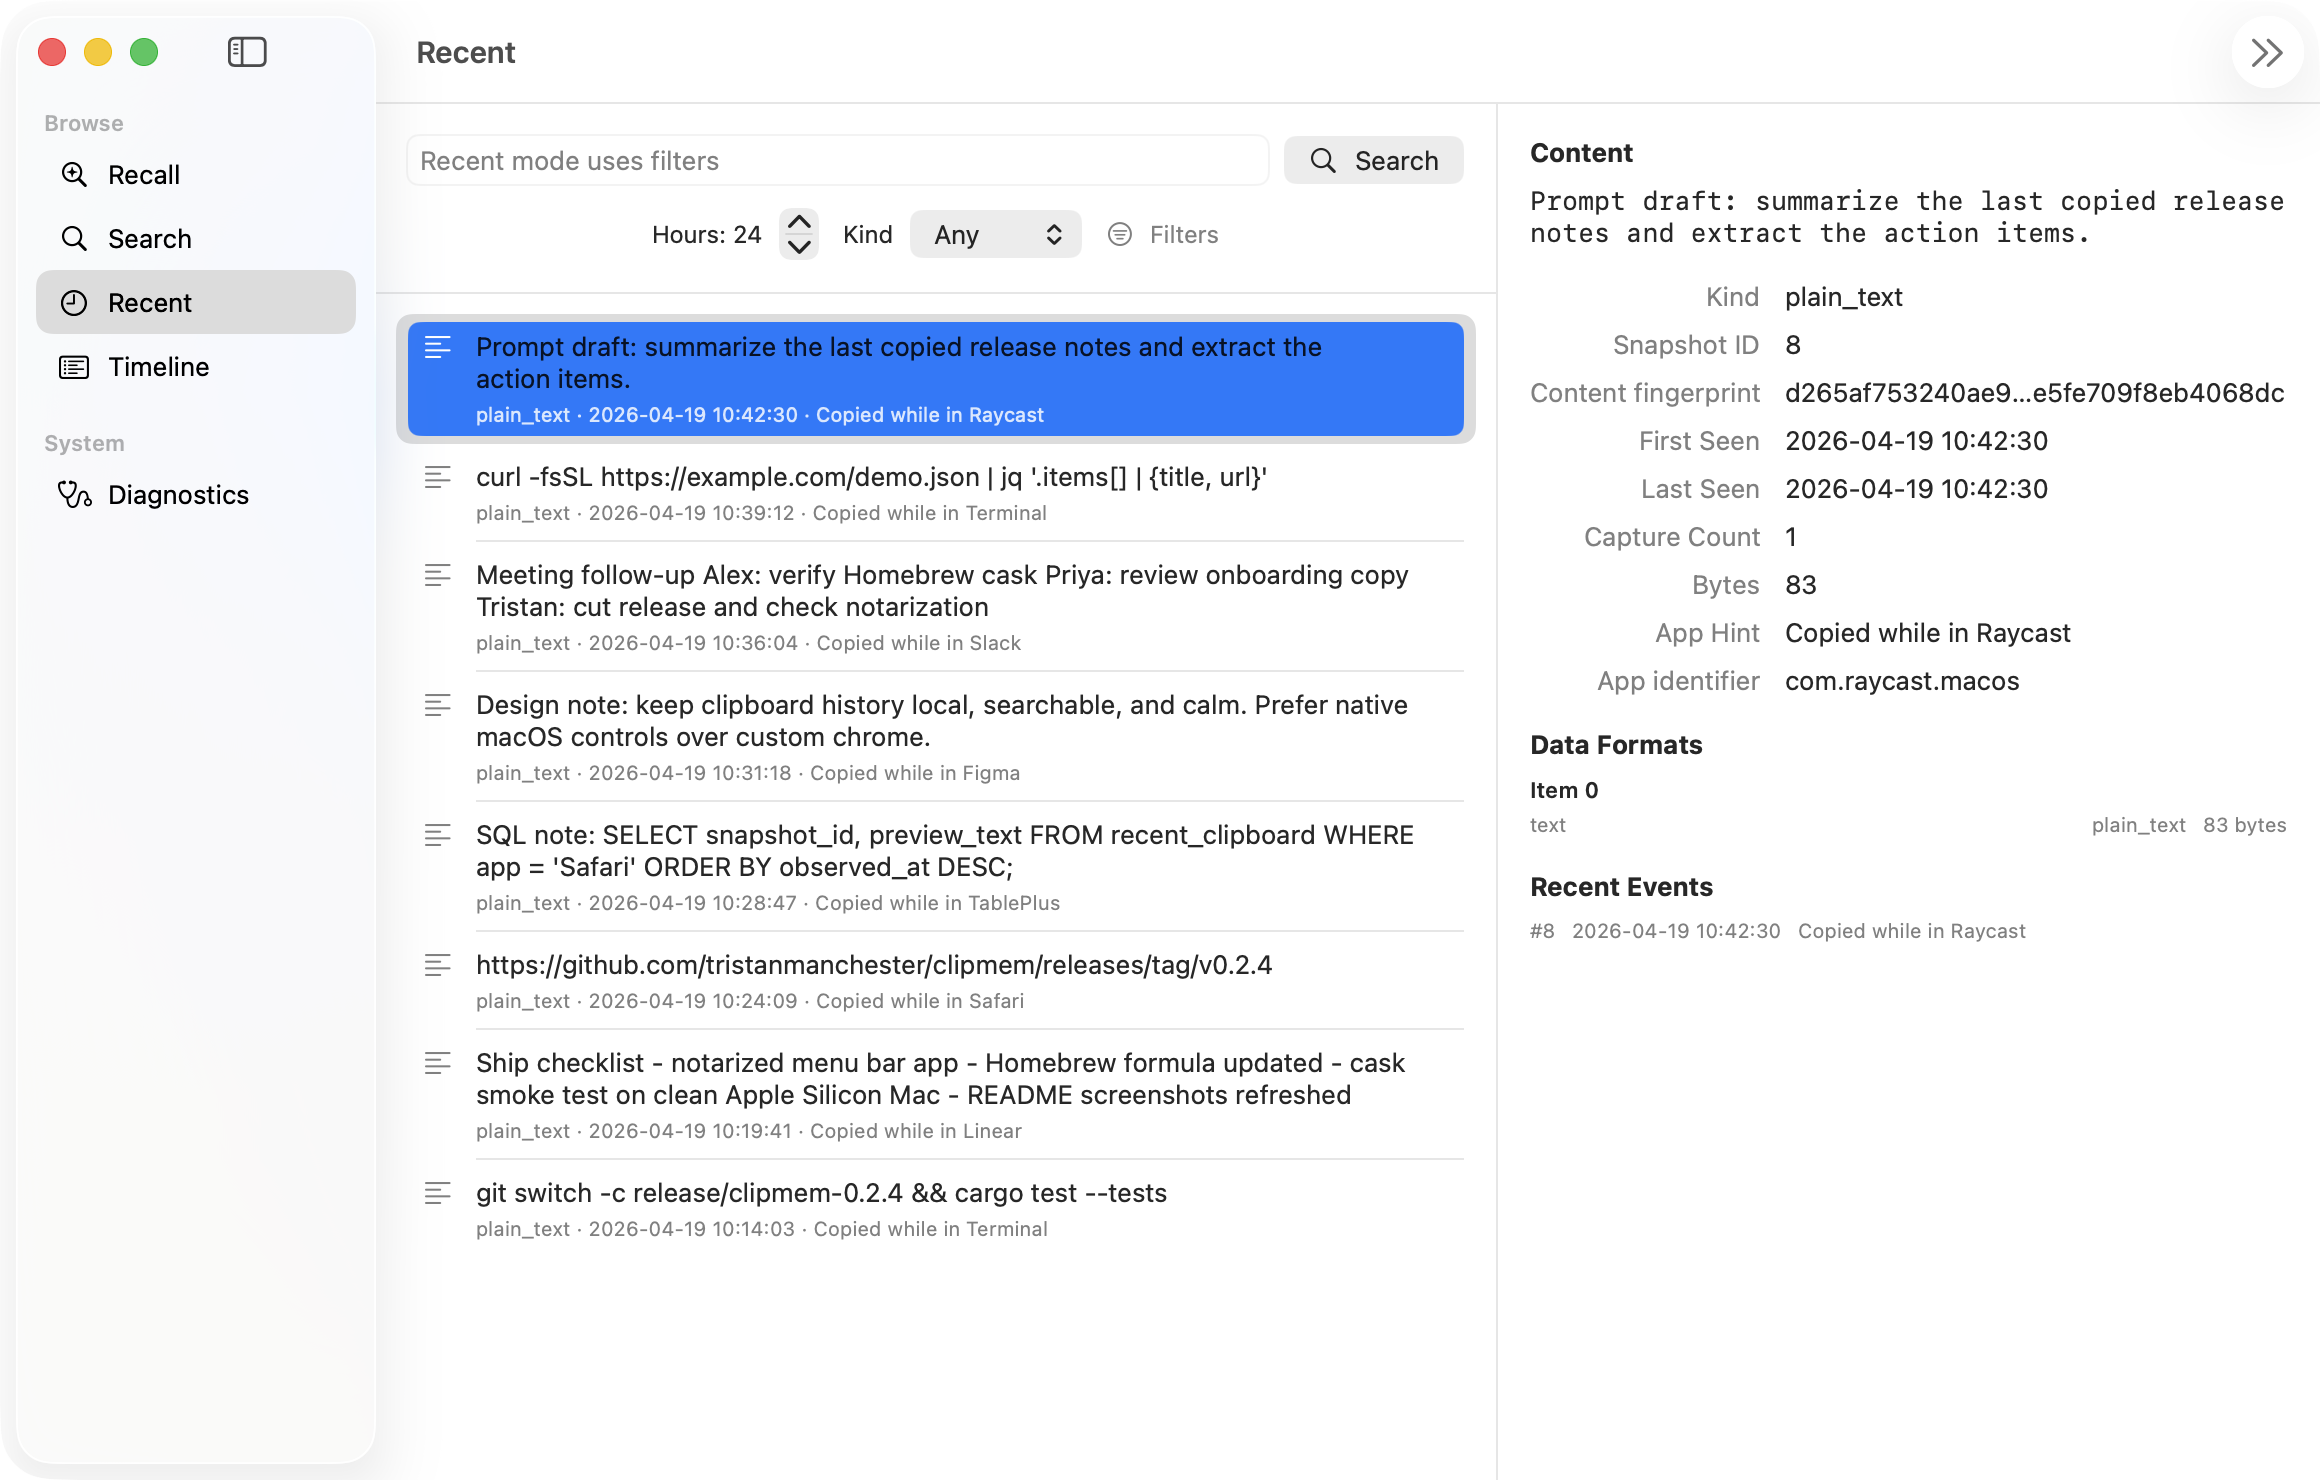
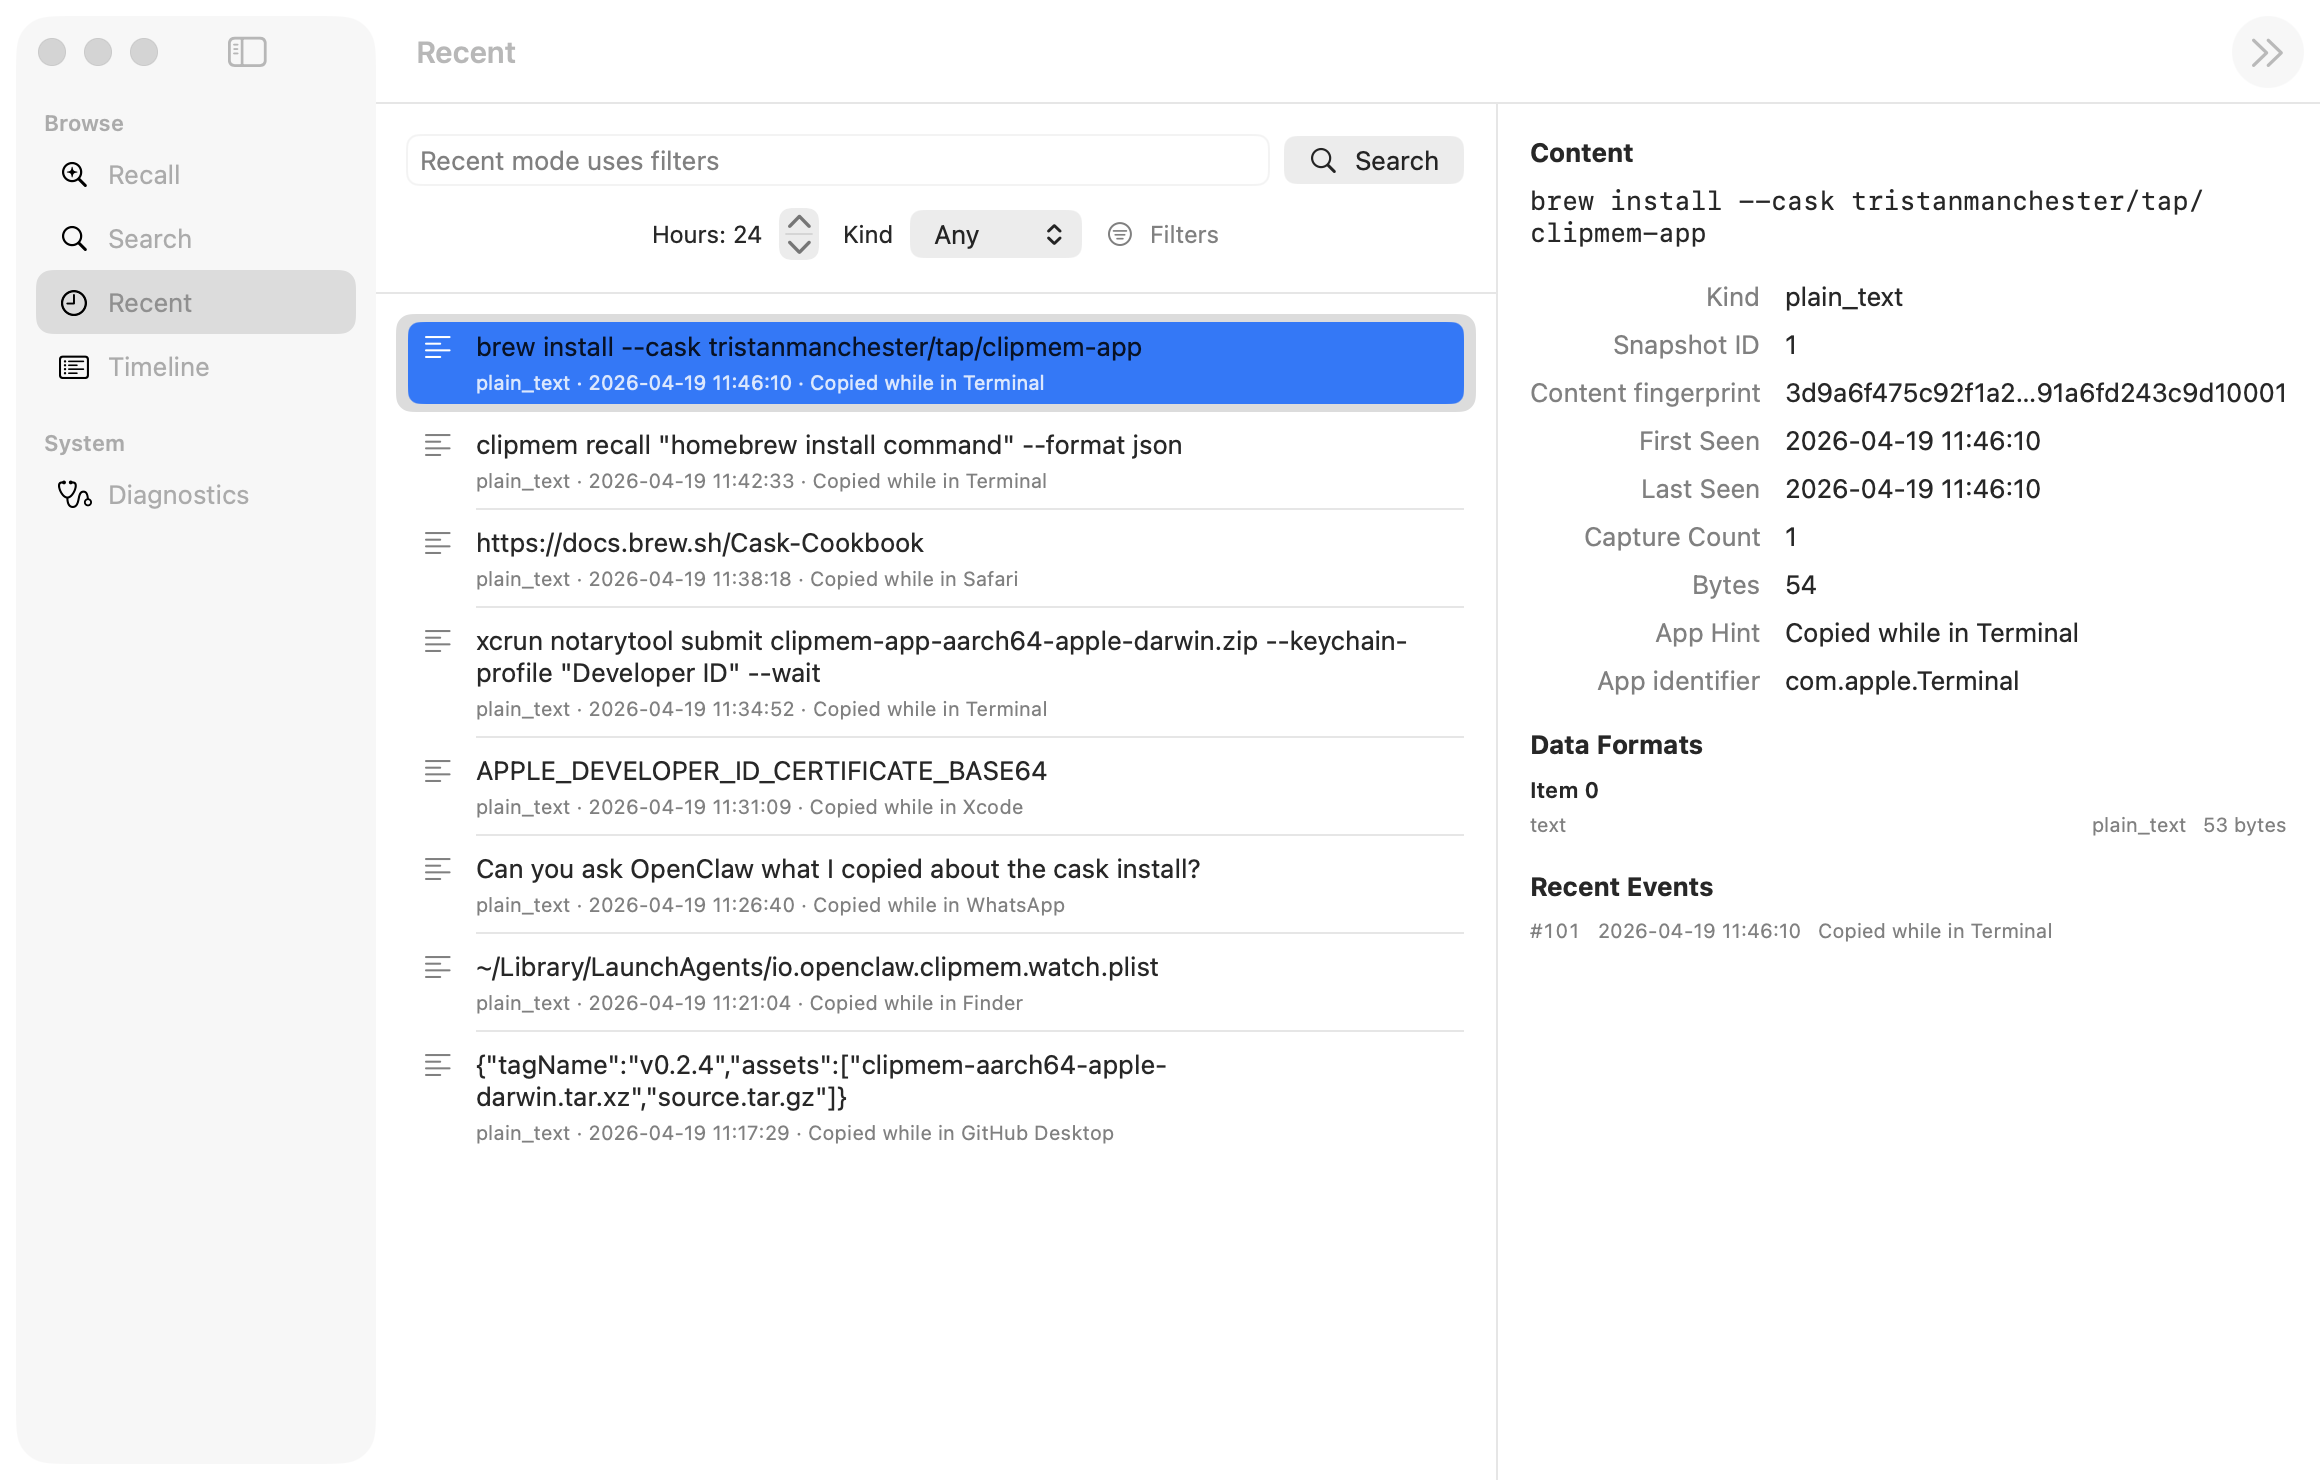
Restore OpenClaw screenshot and refresh app screenshots

diff --git a/README.md b/README.md
@@ -5,14 +5,16 @@
 [![Rust 1.87+](https://img.shields.io/badge/rust-1.87%2B-orange.svg)](https://www.rust-lang.org)
 
 <p align="center">
+  <img src="docs/clipmem-screenshot.png" alt="WhatsApp conversation asking OpenClaw what was copied, with clipmem recall output" width="600">
+</p>
+
+<p align="center">
   <img src="docs/clipmem-history-window.png" alt="clipmem native macOS history window showing recent clipboard entries and item details" width="860">
 </p>
 
 <p align="center">
   <img src="docs/clipmem-menu-bar-panel.png" alt="clipmem menu bar dropdown showing capture status and recent clipboard entries" width="360">
 </p>
-
-<p align="center"><sub>Screenshots use a demo archive with fabricated clipboard entries.</sub></p>
 
 A searchable, local-only clipboard history for macOS, with a JSON-first CLI designed so agents — OpenClaw and others — can recall things you've copied.
 
